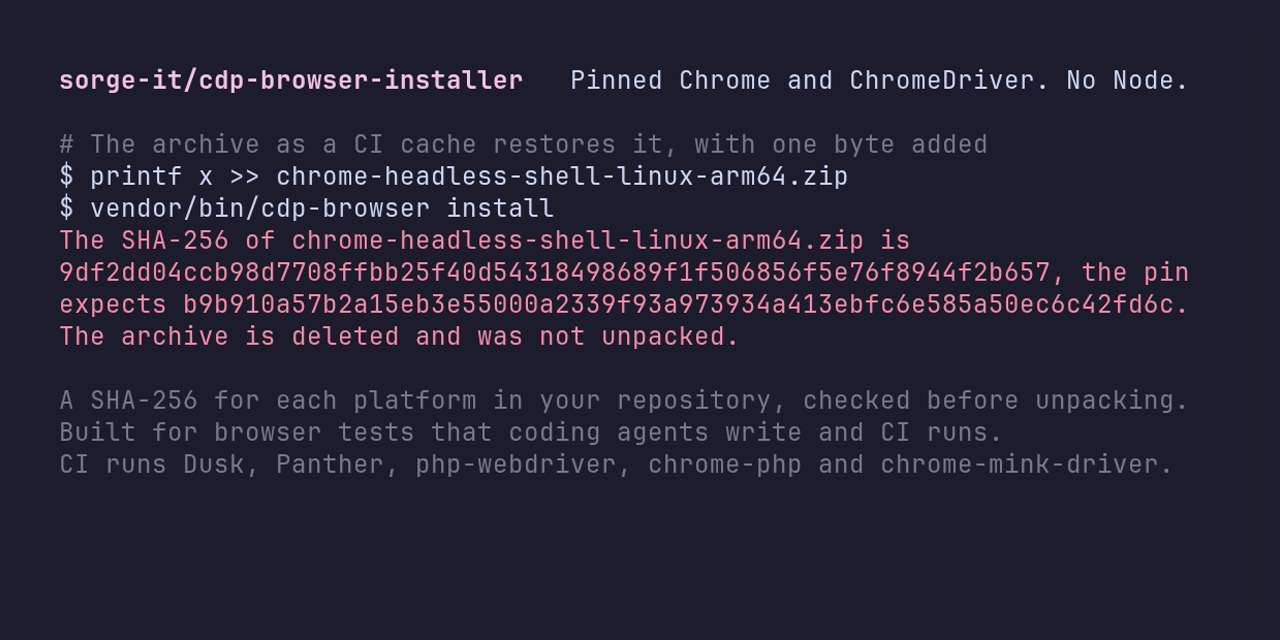
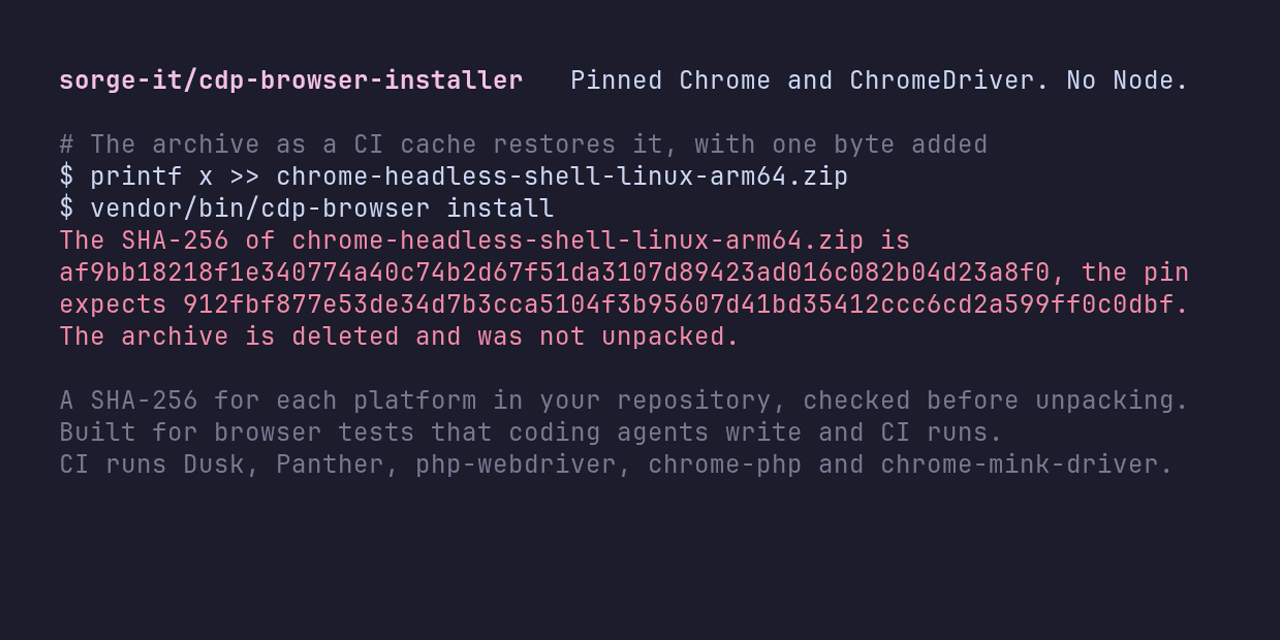
build: pin Chrome for Testing 157.0.8103.78
Chrome for Testing serves 157.0.8103.78 as Stable, so the weekly check turns red against the pin
157.0.8103.38. README, CONTRIBUTING, the demo and the comments under works-with/ name the new
version; the demo is recorded again, and its preflight takes the cache path from VERSION.

Changed region(s): [[0.0312, 0.4062, 0.9375, 0.5]]

diff --git a/demo/app/preflight.php b/demo/app/preflight.php
@@ -13,7 +13,7 @@ use SorgeIt\CdpBrowserInstaller\SystemLibraries;
 
 require __DIR__.'/vendor/autoload.php';
 
-const VERSION = '157.0.8103.38';
+const VERSION = '157.0.8103.78';
 const HASH = '([0-9a-f]{64})';
 
 $pair = getenv('HOME').'/.cache/cdp-browser/'.VERSION.'/linux-arm64';
@@ -41,7 +41,7 @@ $expected = [
     '"$(vendor/bin/cdp-browser path chrome-headless-shell)" --version' => "Google Chrome for Testing {$version}",
     '"$(vendor/bin/cdp-browser path chromedriver)" --version' => "ChromeDriver {$version} \\(.+\\)",
     '# The archive as a CI cache restores it, with one byte added' => '',
-    'dir=~/.cache/cdp-browser/157.0.8103.38/linux-arm64' => '',
+    'dir=~/.cache/cdp-browser/'.VERSION.'/linux-arm64' => '',
     'rm -r $dir/*/ $dir/.sha256-pair' => '',
     'printf x >> $dir/chrome-headless-shell-linux-arm64.zip' => '',
     // ls shows the archive of chromedriver only: the changed archive is gone, and nothing is unpacked.

diff --git a/works-with/check.php b/works-with/check.php
@@ -12,7 +12,7 @@ use SorgeIt\CdpBrowserInstaller\Pin;
  * browser or a ChromeDriver of another version than the pair. Else it prints the result, and adds
  * a row to the summary of the run on GitHub Actions.
  *
- * @param  string  $browser  the version that the browser reports through the tool, such as `157.0.8103.38`
+ * @param  string  $browser  the version that the browser reports through the tool, such as `157.0.8103.78`
  * @param  string|null  $chromedriver  the `chromedriverVersion` that ChromeDriver reports; `null` for a tool that talks to the browser directly
  */
 function check(string $tool, ?string $text, string $expected, string $browser, ?string $chromedriver = null): void

diff --git a/works-with/chrome-php.php b/works-with/chrome-php.php
@@ -25,7 +25,7 @@ try {
     $page = $browser->createPage();
     $page->navigate('data:text/html,<p id="ok">chrome-php</p>')->waitForNavigation();
     $text = $page->evaluate('document.getElementById("ok")?.textContent ?? null')->getReturnValue();
-    // Such as "HeadlessChrome/157.0.8103.38".
+    // Such as "HeadlessChrome/157.0.8103.78".
     $product = (string) $browser->getConnection()->sendMessageSync(new Message('Browser.getVersion'))->getResultData('product');
 } finally {
     $browser->close();

diff --git a/works-with/chrome-mink-driver.php b/works-with/chrome-mink-driver.php
@@ -75,7 +75,7 @@ try {
     exec('rm -rf '.escapeshellarg($profile).' '.escapeshellarg($log));
 }
 
-// Such as "HeadlessChrome/157.0.8103.38" or "Chrome/156.0.8078.79".
+// Such as "HeadlessChrome/157.0.8103.78" or "Chrome/156.0.8078.79".
 $product = (string) $version['Browser'];
 
 check('dmore/chrome-mink-driver', $text, 'chrome-mink-driver', substr($product, strpos($product, '/') + 1));

diff --git a/demo/app/social.php b/demo/app/social.php
@@ -8,7 +8,7 @@ declare(strict_types=1);
 // Columns of the terminal in social.tape, less the indent: the wrapped lines keep it.
 const WIDTH = 76;
 const CACHE = __DIR__.'/out-social';
-const DIRECTORY = CACHE.'/157.0.8103.38/linux-arm64';
+const DIRECTORY = CACHE.'/157.0.8103.78/linux-arm64';
 
 putenv('CDP_BROWSER_PATH='.CACHE);
 

diff --git a/demo/app/demo.php b/demo/app/demo.php
@@ -10,7 +10,7 @@ use SorgeIt\CdpBrowserInstaller\Platform;
 
 require __DIR__.'/vendor/autoload.php';
 
-const VERSION = '157.0.8103.38';
+const VERSION = '157.0.8103.78';
 const CACHE = '.cache/cdp-browser';
 
 // The cache stays inside the demo app; ~/.cache is left alone.

diff --git a/README.md b/README.md
@@ -44,7 +44,7 @@ for the download.
 
 ```sh
 composer require --dev sorge-it/cdp-browser-installer
-vendor/bin/cdp-browser pin 157.0.8103.38               # writes the pin file .chrome-version; commit it
+vendor/bin/cdp-browser pin 157.0.8103.78               # writes the pin file .chrome-version; commit it
 vendor/bin/cdp-browser install                         # in each checkout, container and CI run
 vendor/bin/cdp-browser path chrome-headless-shell      # prints the path of the browser
 vendor/bin/cdp-browser path chromedriver               # prints the path of ChromeDriver
@@ -58,7 +58,7 @@ vendor/bin/cdp-browser path chromedriver               # prints the path of Chro
   root first. `install` and `pin` stop as root without `--allow-root` (see [Commands](#commands)).
 - In the
   [text demo](https://github.com/sorge-it/cdp-browser-installer/blob/main/demo/output/demo.txt)
-  on macOS arm64, the first `install` took 13.2 s with the download of the pair, the second 0.0 s.
+  on macOS arm64, the first `install` took 13.3 s with the download of the pair, the second 0.1 s.
 - To upgrade from release 1.x, do each step of
   [Upgrade from 1.x](https://github.com/sorge-it/cdp-browser-installer/blob/main/CHANGELOG.md#upgrade-from-1x).
 
@@ -292,8 +292,8 @@ through a symbolic link: on macOS, Chrome looks for its data files next to the p
 from. Both report the version of the pin file:
 
 ```sh
-"$(vendor/bin/cdp-browser path chrome-headless-shell)" --version   # Google Chrome for Testing 157.0.8103.38
-"$(vendor/bin/cdp-browser path chromedriver)" --version            # ChromeDriver 157.0.8103.38 (…)
+"$(vendor/bin/cdp-browser path chrome-headless-shell)" --version   # Google Chrome for Testing 157.0.8103.78
+"$(vendor/bin/cdp-browser path chromedriver)" --version            # ChromeDriver 157.0.8103.78 (…)
 "$(vendor/bin/cdp-browser path chrome-headless-shell)" --dump-dom 'data:text/html,<p>ok</p>'
 ```
 
@@ -309,18 +309,18 @@ with `--no-sandbox` there; the installer does not decide that for you.
 
 ```json
 {
-    "version": "157.0.8103.38",
+    "version": "157.0.8103.78",
     "chrome-headless-shell": {
[8 lines of base64/hex data omitted]
     },
     "chromedriver": {
[8 lines of base64/hex data omitted]
     }
 }
 ```

diff --git a/CONTRIBUTING.md b/CONTRIBUTING.md
@@ -49,7 +49,7 @@ that counts as caught may have escaped: check it by hand.
 
 The code must run on PHP 8.4, on Linux with glibc and musl, and on macOS. When a message or a step
 of the demo changes, record the demo again. Both commands need network access: `pin` downloads
-the archive of each binary for each platform of version 157.0.8103.38.
+the archive of each binary for each platform of version 157.0.8103.78.
 
 - `make -C demo record` writes the text demo on your machine and needs PHP 8.4, Composer, curl and
   unzip.
